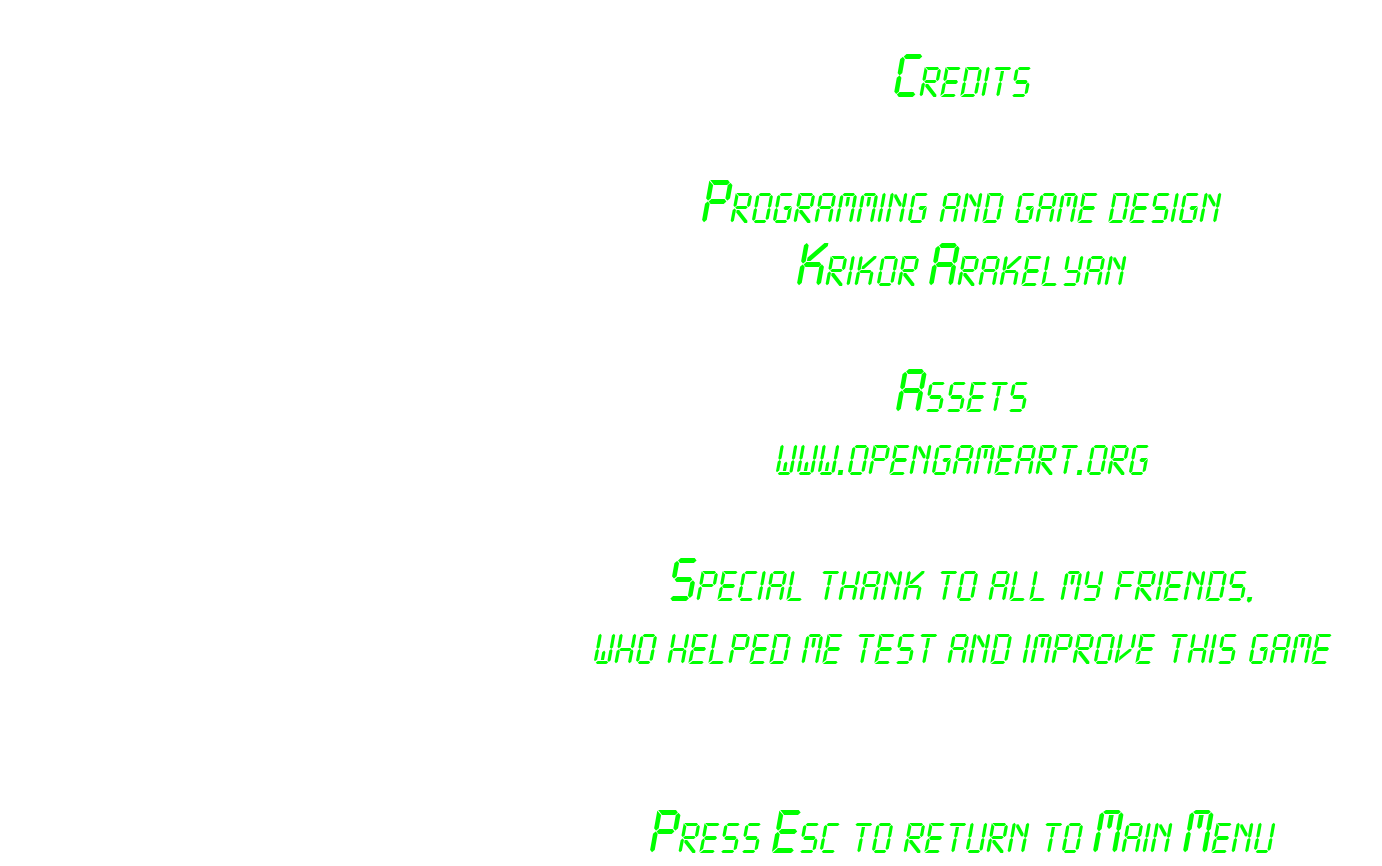
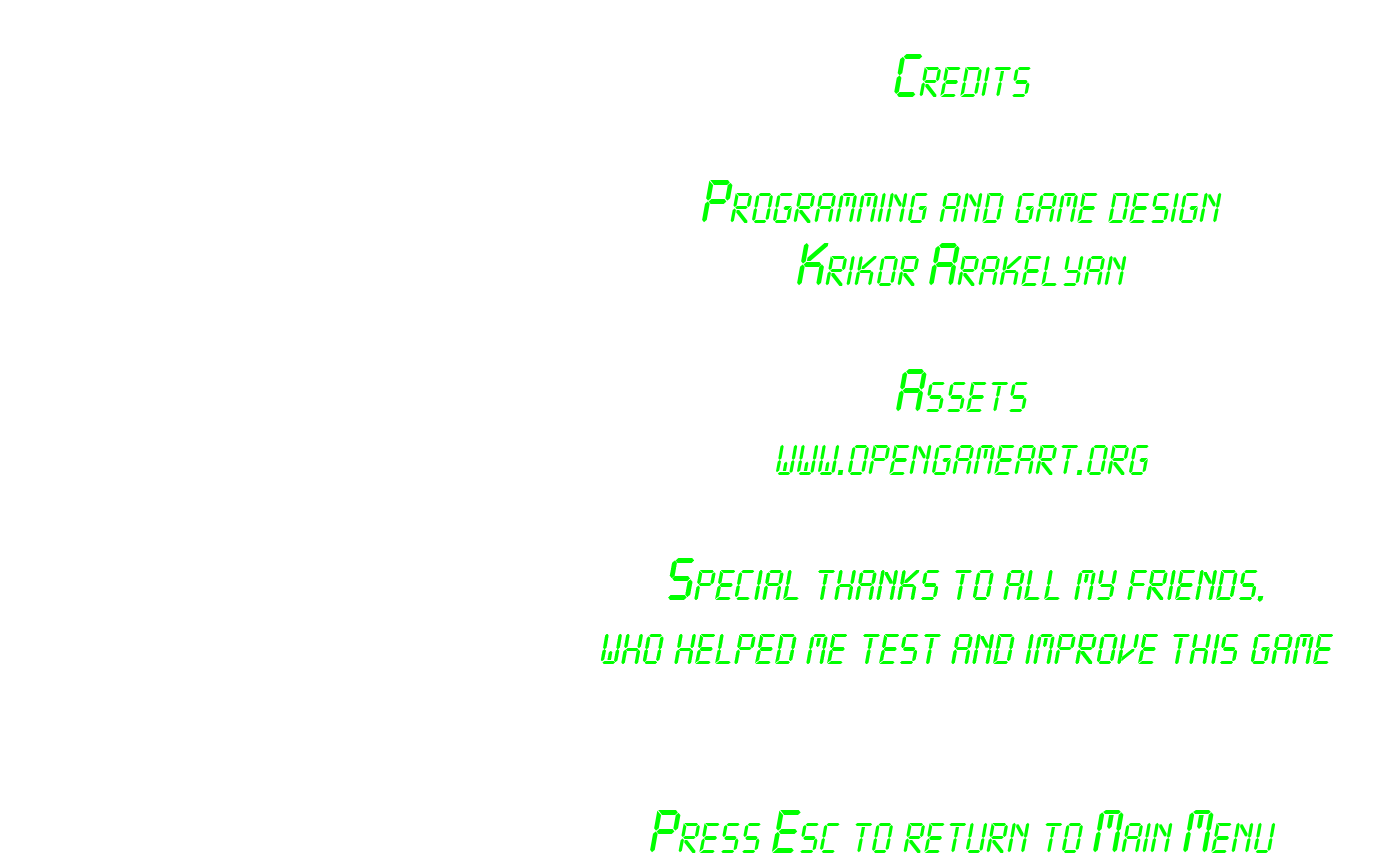
In Space Gauntlet: Overall cleanup of code. Fixed more typos in menu screens.

Changed region(s): [[0.4356, 0.6547, 0.9645, 0.7794]]

diff --git a/Space_Gauntlet/animations.py b/Space_Gauntlet/animations.py
@@ -21,17 +21,13 @@ class MovingBackground:
         self.delta_time = delta_time
         self.rect_img_back = self.img_back.get_rect()
         self.img_back_XY1 = (0, 0)
-        # self.img_back_X1 = 0
         self.img_back_XY2 = (0, self.rect_img_back.height)
-        # self.img_back_X2 = 0
         self.mov_speed_img_back = speed_back_img * self.delta_time
 
         self.img_front = img_front
         self.rect_img_front = self.img_front.get_rect()
         self.img_front_XY1 = (0, 0)
-        # self.img_front_X1 = 0
         self.img_front_XY2 = (0, self.rect_img_front.height)
-        # self.img_front_X2 = 0
         self.mov_speed_img_front = speed_front_img * self.delta_time
 
     def update(self):

diff --git a/Space_Gauntlet/misc_funcs.py b/Space_Gauntlet/misc_funcs.py
@@ -37,14 +37,13 @@ def letter_change(pos, number):
     return pos
 
 
-def letter_pos(pos, pos1, pos2, pos3, screen):
+def letter_pos(pos, pos1, pos2, pos3, screen):  # Changes position of screen pointer under letter
     if pos == 0:
         screen.blit(pos1, (0, 0))
     if pos == 1:
         screen.blit(pos2, (0, 0))
     if pos == 2:
         screen.blit(pos3, (0, 0))
-
 
 
 def save_new_score(score):
@@ -104,6 +103,7 @@ def play_track(music_track, volume, bool_var):
 
 
 class UserScore:
+    """Saves the score with a unique id, to allow for scores with same users' names"""
     def __init__(self, id_num, user, score):
         self.id_num = str(id_num)
         self.user = user

diff --git a/Space_Gauntlet/player.py b/Space_Gauntlet/player.py
@@ -83,8 +83,3 @@ class PlayerProjectile(pygame.sprite.Sprite):
 
         if self.rect.y < 0:
             self.kill()
-
-
-FPS = 60
-FramesPerSec = pygame.time.Clock()
-DeltaTime = FramesPerSec.tick(FPS) / 1000
